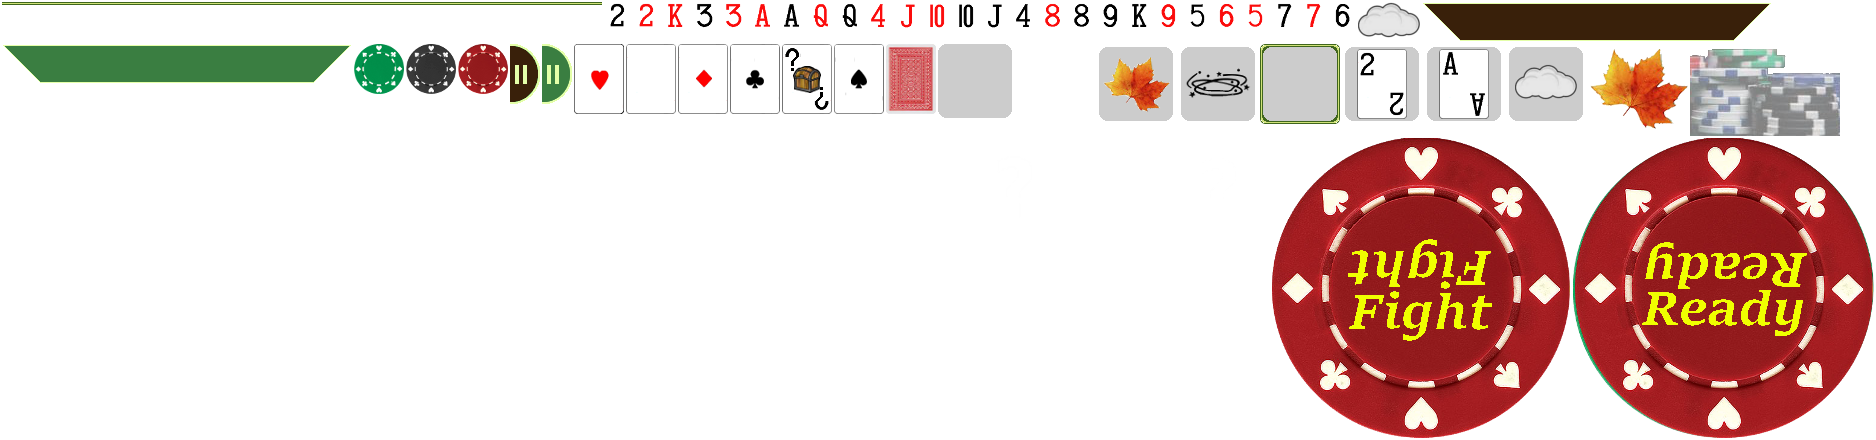
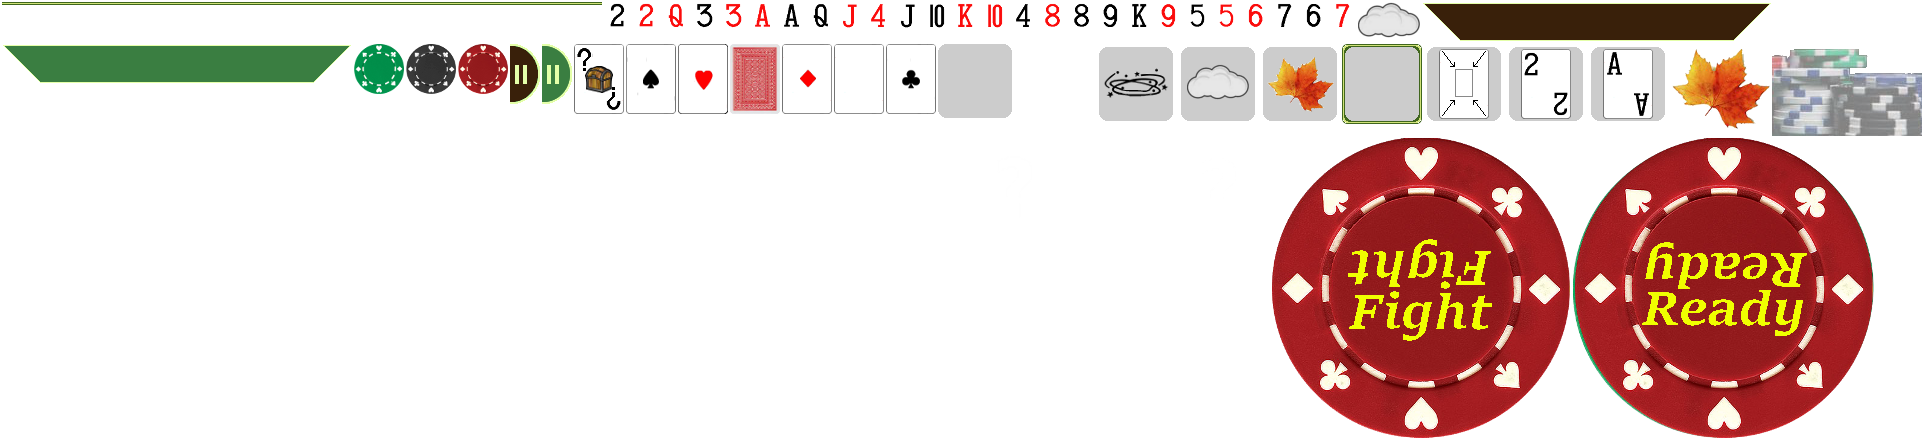
add new item:shrink

Changed region(s): [[0.1546, 0.0, 1.0, 1.0]]

diff --git a/src/item.js b/src/item.js
@@ -28,13 +28,13 @@ var CloudItemModel = ItemModel.extend({
         return {
             name:"cloud",
             displayName:"唤云",
-            maxCharge: 3,
+            maxCharge: 1,
             maxCoolDown: 10,
             description:"召唤云朵干扰对手视线",
             showCharge: true,
-            cloudCount : 35,
+            cloudCount : 50,
             cloudScale: 1.75,
-            cloudTime: 5
+            effectTime: 10
         }
     },
     effect:function(playerSprite, opponentPlayerSprite){
@@ -44,7 +44,7 @@ var CloudItemModel = ItemModel.extend({
         var rotation = opponentPlayerSprite.model.get("position") === PLAYER_POSITION_DOWN ? 0 : 180;
         var rect = opponentPlayerSprite.getEffectRect();
         var scale = this.get("cloudScale");
-        var cloudTime = this.get("cloudTime");
+        var effectTime = this.get("effectTime");
         for ( var i = 0; i < this.get("cloudCount") ; i ++ ) {
             var cloud = new cc.Sprite(cc.spriteFrameCache.getSpriteFrame("cloud.png"));
             cloud.attr( {
@@ -60,7 +60,7 @@ var CloudItemModel = ItemModel.extend({
                 var delay = Math.round(Math.random()*50)/10;
                 sprite.runAction(cc.sequence(
                     cc.delayTime(delay),
-                    cc.moveTo(cloudTime, endX, sprite.y),
+                    cc.moveTo(5, endX, sprite.y),
                     cc.callFunc(function () {
                         sprite.removeFromParent(true);
                     })))
@@ -144,6 +144,32 @@ var DizzyItemModel = ItemModel.extend({
     }
 });
 
+var ShrinkItemModel = ItemModel.extend({
+    defaults:function(){
+        return {
+            name:"shrink",
+            displayName:"缩小光线",
+            maxCharge: 1,
+            maxCoolDown: 1,
+            description:"对手的牌全部缩小",
+            showCharge: false,
+            effectTime: 10
+        }
+    },
+    effect:function(playerSprite, opponentPlayerSprite){
+        var rect = opponentPlayerSprite.getEffectRect();
+        opponentPlayerSprite.model.set("sizeDown", this.get("effectTime"));
+        _.each( mainLayer.getChildren(), function(sprite) {
+            if (sprite instanceof NormalCardSprite ) {
+                var point = new cc.Point(sprite.x, sprite.y);
+                if (cc.rectContainsPoint(rect, point) && !sprite.alreadyTaken){
+                    sprite.shrink();
+                }
+            }
+        });
+    }
+});
+
 var TwoItemModel = ItemModel.extend({
     defaults:function(){
         return {
@@ -198,11 +224,11 @@ var LeafItemModel = ItemModel.extend({
         return {
             name:"leaf",
             displayName:"落叶",
-            maxCharge: 3,
+            maxCharge: 1,
             maxCoolDown: 10,
             description:"召唤落叶干扰对手视线",
             showCharge: true,
-            leafCount : 25,
+            leafCount : 40,
             leafScale: 1,
             fallTime: 4
         }
@@ -371,9 +397,10 @@ var ItemSlotSprite = cc.Sprite.extend({
 });
 
 var ITEM_MODEL_CLASS_MAP = {
-    "cloud": CloudItemModel,
-    "leaf": LeafItemModel,
     "ace": AceItemModel,
+    "cloud": CloudItemModel,
     "dizzy": DizzyItemModel,
+    "leaf": LeafItemModel,
+    "shrink":ShrinkItemModel,
     "two": TwoItemModel
 }

diff --git a/src/poker-card.js b/src/poker-card.js
@@ -144,6 +144,10 @@ var NormalCardSprite = cc.Sprite.extend({
                                     }
                                 },this) ) );
                         }
+
+                        //check size
+                        var newSizeScale = gameModel.player2.getSizeAdjust();
+                        this.runAction(cc.scaleTo(0.1, newSizeScale, newSizeScale));
                     },target)) );
             } else {
                 target.moveToLine.call(target, gameModel.player2, player2Y, function(){
@@ -173,6 +177,10 @@ var NormalCardSprite = cc.Sprite.extend({
                                     }
                                 },this) ) );
                         }
+
+                        //check size
+                        var newSizeScale = gameModel.player1.getSizeAdjust();
+                        this.runAction(cc.scaleTo(0.1, newSizeScale, newSizeScale));
                     },target)) );
             } else {
                 target.moveToLine.call(target, gameModel.player1, player1Y, function(){
@@ -295,6 +303,9 @@ var NormalCardSprite = cc.Sprite.extend({
     },
     dizzy:function(){
         this.runAction(cc.rotateBy(0.5,360).repeatForever())
+    },
+    shrink:function(){
+        this.runAction(cc.scaleTo(0.1,1.1/1.5, 1.1/1.5));
     }
 });
 

diff --git a/src/app.js b/src/app.js
@@ -755,7 +755,7 @@ var GameModel = Backbone.Model.extend({
             coinAppearRate: 0.2,
             bigMoneyRate: 0.1,
             allowItem: true,
-            itemAppearRate: 1,//0.3,
+            itemAppearRate: 0.35,
             gameSpeed: 1
         }
     },
@@ -763,7 +763,7 @@ var GameModel = Backbone.Model.extend({
         this.maxCountDown = 60;
         this.countDown = this.maxCountDown;
         this.generateCardCountDown = 0;
-        this.generateItemCountDown = 0;//GENERATE_ITEM_INTERVAL;
+        this.generateItemCountDown = GENERATE_ITEM_INTERVAL;
 
         this.set("betRate", 1);
         this.set("status", "ready");
@@ -798,8 +798,8 @@ var GameModel = Backbone.Model.extend({
             new ItemPattern4Model()
         ];
 
-        //this.itemPool = ["ace","cloud","dizzy","leaf","two"];
-        this.itemPool = ["dizzy"];
+        this.itemPool = ["ace","cloud","dizzy","leaf","shrink","two"];
+        //this.itemPool = ["shrink"];
     },
     newDeck:function(){
         this.deck = newDeck();
